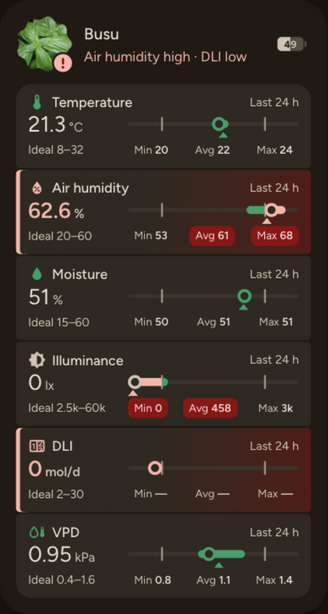
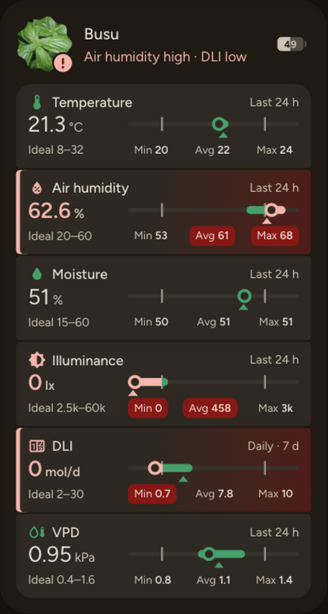
docs: history window, DLI daily totals, out-of-bounds red

diff --git a/README.md b/README.md
@@ -1,6 +1,6 @@
 # Material Plant Card
 
-A [Home Assistant](https://www.home-assistant.io/) Lovelace plant card built for **Material 3 Expressive**, with full-mode metric tiles and 24-hour ranges or compact circular gauges, plant problem summaries and a battery indicator. Requires [Olen's plant monitor integration](https://github.com/Olen/homeassistant-plant).
+A [Home Assistant](https://www.home-assistant.io/) Lovelace plant card built for **Material 3 Expressive**, with full-mode metric tiles and 24-hour or 7-day history or compact circular gauges, plant problem summaries and a battery indicator. Requires [Olen's plant monitor integration](https://github.com/Olen/homeassistant-plant).
 
 Designed to pair with [Material Thermostat Card](https://github.com/lageorgem/ha-material-thermostat-card), [Material Purifier Card](https://github.com/lageorgem/ha-material-purifier-card) and [Nerwyn's Material You theme](https://github.com/Nerwyn/material-you-theme), with Home Assistant theme fallbacks.
 
@@ -37,21 +37,21 @@ Designed to pair with [Material Thermostat Card](https://github.com/lageorgem/ha
 
 ## Highlights
 
-- Full mode (default, as in flower-card): a header and grouped Material 3 Expressive metric tiles with small tone-coloured icons, large values with units, ideal-bound ticks, a coloured 24-hour range, average marker and Min/Avg/Max badges.
+- Full mode (default, as in flower-card): a header and grouped Material 3 Expressive metric tiles with small tone-coloured icons, large values with units, ideal-bound ticks, a coloured 24-hour or 7-day range, average marker and Min/Avg/Max badges. Cumulative sensors such as DLI show daily totals for the last 7 complete days.
 - Compact mode: circular gauges with centred icons and three zones: **too low / just right / too high**, a thick in-range band, thin outer zones, an active arc and a position dot.
-- Success colour for in-range readings, neutral for out-of-range advice, error colour for problems with bold, error-coloured value text.
+- Success colour for in-range readings. Full-mode non-cumulative values, rings and title icons turn error red outside the ideal range, independently of problem settings; only real problems add the red left accent and tint. Compact gauges and cumulative current values keep the problem-setting colour.
 - Plant photo in an M3 Expressive cookie shape, with a placeholder for missing or broken images and a red error circle with a centred **!** when problems exist.
 - Name and species, or a problem summary such as **Moisture low · DLI low**.
 - Optional iOS-style battery glyph with the level number inside; red below 10% by default, otherwise neutral.
 - Width-aware, balanced gauge rows and two-line Material plain tooltips on long-press, hover or keyboard focus.
-- Shared photo and species header in both modes; visual editor with **Gauges**, **Problems** and **Appearance** sections.
+- Shared photo and species header in both modes; visual editor with **Metrics**, **Problems** and **Appearance** sections.
 - Config-compatible with flower-card; migrate by changing the card type.
 
 ## Gallery
 
-Full mode shows metric tiles and 24-hour ranges:
+Full mode shows metric tiles with configurable history and DLI daily totals:
 
-<img src="https://raw.githubusercontent.com/lageorgem/ha-material-plant-card/master/assets/full-dark.png" alt="Full mode: metric tiles with ideal ticks, 24-hour range, average marker and Min/Avg/Max badges; two tiles flagged as problems" width="327">
+<img src="https://raw.githubusercontent.com/lageorgem/ha-material-plant-card/master/assets/full-dark.png" alt="Busu in full mode: metric tiles with ideal ticks, historical ranges, average markers and Min/Avg/Max badges; humidity and DLI problems, with DLI daily totals" width="327">
 
 The dashboard above shows eleven plants in compact mode. This compact single-card view shows a plant needing attention:
 
@@ -114,12 +114,13 @@ Defaults apply when keys are omitted. Only `type` and `entity` are required; eve
 | `type` | string, required | None | Custom card type. | `custom:material-plant-card` |
 | `entity` | string, required | None | Plant monitor entity; must start with `plant.`. | `plant.orhideea` |
 | `name` | string, optional | Plant friendly name, then entity ID | Override the title; an empty string also falls back. | `Orchid` |
-| `display_type` | `full` or `compact`, optional | `full` | Full shows grouped metric tiles with range bars and 24-hour history; compact shows circular gauges. Both use the same photo and species header. | `compact` |
+| `display_type` | `full` or `compact`, optional | `full` | Full shows grouped metric tiles with range bars and history; compact shows circular gauges. Both use the same photo and species header. | `compact` |
 | `show_bars` | string list, optional | `[moisture, conductivity, temperature, illuminance, humidity, dli]` | Measurements to display, in order, as tiles or gauges. Duplicates are removed; `[]` hides all measurements. | `[moisture, temperature, dli]` |
 | `hide_species` | boolean, optional | `false` | Hide species in either mode; does not hide problem summaries. | `true` |
 | `hide_image` | boolean, optional | `false` | Hide the photo/placeholder and its alert badge. | `true` |
 | `hide_units` | boolean, optional | `false` in both modes | Full: hides the unit next to each value, keeping the number. Compact: hides the **entire value text** below gauges. | `true` |
-| `hide_history` | boolean, optional | `false` | Full only: disables history fetching; removes Last 24 h, the scale's min–max segment and average marker, and the Min/Avg/Max row. Keeps current values, ideal ranges, ticks and current-value rings. | `true` |
+| `history_period` | string (`24h` or `7d`), optional | `24h` | Full only: window for the historical range, average and Min/Avg/Max. Cumulative sensors always use daily totals for the last 7 complete days. Editor: Metrics → History window. | `7d` |
+| `hide_history` | boolean, optional | `false` | Full only: disables history fetching; removes the history label, the scale's min–max segment and average marker, and the Min/Avg/Max row. Keeps current values, ideal ranges, ticks and current-value rings. | `true` |
 | `image` | string, optional | Plant `entity_picture` | Picture URL or path override. A missing or broken image displays a placeholder. | `/local/plants/orchid.jpg` |
 | `battery_sensor` | string, optional | Unset; no indicator | Battery percentage sensor. Glyph is shown only if the entity exists. | `sensor.sh_5_battery` |
 | `battery_warn_level` | number, optional | `10` | Battery levels below this threshold use the error colour; otherwise neutral. | `10` |
@@ -163,13 +164,17 @@ Both modes show the same photo size and species line unless `hide_image` or `hid
 
 ## Reading full-mode tiles
 
-The title row has a small tone-coloured icon and metric name, with **Last 24 h** on the right. A large current value with its unit sits on the left, with **Ideal a–b** below it.
+The title row has a small tone-coloured icon and metric name, with **Last 24 h** (default) or **Last 7 d** on the right. Set `history_period: 7d`, or choose **Metrics → History window** in the editor, to change the window for the range, average and Min/Avg/Max. Cumulative sensors show **Daily · 7 d** instead. A large current value with its unit sits on the left, with **Ideal a–b** below it.
 
-On the right, a horizontal scale has tick marks at the ideal bounds. The last-24-hour minimum-to-maximum segment is success-coloured inside the ideal range and error-coloured outside it. A hollow ring marks the current value: success in range, error for a selected problem, or neutral for out-of-range advice according to [problem settings](#choosing-problem-behaviour). A triangle under the scale marks the 24-hour average, success-coloured within the ideal range and error-coloured outside it. Historical colours reflect the ideal bounds independently of problem settings. The historical range includes the current reading if it extends beyond the recorded range.
+On the right, a horizontal scale has tick marks at the ideal bounds. The historical minimum-to-maximum segment is success-coloured inside the ideal range and error-coloured outside it. A hollow ring marks the current value. For non-cumulative sensors, an out-of-range current value, ring and title icon turn error red even when [problem settings](#choosing-problem-behaviour) do not flag a problem. Cumulative current values such as DLI (today's running total) keep the problem-setting colour. A triangle under the scale marks the historical average, success-coloured within the ideal range and error-coloured outside it. Historical colours reflect the ideal bounds independently of problem settings. For non-cumulative sensors, the historical range includes the current reading if it extends beyond the recorded range.
 
-Below the scale, **Min · Avg · Max** values each get an error badge when outside the ideal range. Missing history shows **—** for those values. Problem tiles also have an error accent on the left edge, a faint error tint and bold, error-coloured current-value text.
+Below the scale, **Min · Avg · Max** values each get an error badge when outside the ideal range. Missing history shows **—** for those values. Only real problems selected by the problem settings add an error accent on the left edge and a faint error tint; a red current value alone does not mean the tile is a problem.
 
-History comes from Home Assistant's recorder long-term statistics, using hourly minimum, maximum and mean data for the last 24 hours. Sensors need `state_class: measurement` and recorder statistics enabled; plant monitor measurement sensors provide that state class. DLI is a running total, so it shows no 24-hour min–max segment or average marker, and its Min/Avg/Max values show **—**. Unavailable statistics behave the same way without hiding the current value or ideal range. History refreshes every **10 minutes**. `hide_history: true` disables fetching and removes **Last 24 h**, the historical segment, average marker and Min/Avg/Max row; the scale, ideal ticks and current-value ring remain.
+History comes from Home Assistant's recorder long-term statistics, using hourly minimum, maximum and mean data for the selected 24-hour or 7-day window. Measurement sensors need `state_class: measurement` and recorder statistics enabled; plant monitor measurement sensors provide that state class.
+
+Cumulative sensors (`state_class: total` or `total_increasing`), including the plant monitor's DLI, instead use daily totals for the **last 7 complete days**, regardless of `history_period`. Today's partial total is excluded from history. The segment and **Min · Avg · Max** summarise those daily totals, while the large current value remains today's running total. This replaces the previous DLI **—** history display.
+
+Unavailable statistics show **—** with no historical segment or average marker, without hiding the current value or ideal range. History refreshes every **10 minutes**. `hide_history: true` disables fetching and removes the history label (**Last 24 h**, **Last 7 d** or **Daily · 7 d**), historical segment, average marker and Min/Avg/Max row; the scale, ideal ticks and current-value ring remain.
 
 Tap a tile to open sensor more-info. `hide_units: true` hides only the unit next to the tile's value, not the number. Range position uses the same scaling as [compact gauges](#reading-compact-mode-gauges), including logarithmic lux scaling.
 
@@ -265,7 +270,7 @@ Use [Nerwyn's Material You theme](https://github.com/Nerwyn/material-you-theme) 
 | Gauge has no active indicator | Check that the sensor value and min/max thresholds are numeric and that minimum is below maximum. |
 | Out-of-range gauge is not red | Default problem behaviour follows the integration's triggers. Check those triggers and `problem_sensors`, or use `problem_source: gauges`. |
 | Values disappear in compact display | Check for `hide_units: true`; set it to `false` to restore value text (the default in both modes). |
-| Full tiles have no 24-hour range | Set `hide_history: false`, enable recorder statistics for measurement sensors and allow statistics to accumulate. Running-total DLI has no min/max/mean history. Current values still display. |
+| Full tiles have no history range | Set `hide_history: false`, enable recorder statistics and allow statistics to accumulate. Measurement sensors use the selected `history_period`; cumulative sensors such as DLI need completed daily totals and exclude today's partial total. Current values still display. |
 | No battery indicator | Set `battery_sensor` and confirm that entity exists. Battery is not auto-detected. |
 | Photo shows a placeholder | Check `image` or the plant's `entity_picture` and whether the browser can load it. |
 

diff --git a/info.md b/info.md
@@ -4,13 +4,13 @@ Material 3 Expressive plant monitoring for Home Assistant, using [Olen's plant m
 
 <img src="https://raw.githubusercontent.com/lageorgem/ha-material-plant-card/master/assets/hero-dark.png" alt="Eleven plants on a dark dashboard using Material Plant Card in compact mode" width="900">
 
-- Full mode (default, as in flower-card): a header and grouped Material 3 Expressive metric tiles. Each title row has a small tone-coloured icon and metric name, with **Last 24 h** on the right. A large current value with its unit sits above **Ideal a–b** on the left. On the right, a scale has ticks at the ideal bounds and a last-24h min–max segment coloured success inside the ideal range and error outside it. A hollow ring marks the current value, using success/error/neutral according to problem settings. A triangle below the scale marks the average, success-coloured in range and error-coloured outside it. Below that, **Min · Avg · Max** values each get an error badge when outside the ideal range, independently of problem settings. Problem tiles have an error accent on the left edge and a faint error tint.
+- Full mode (default, as in flower-card): a header and grouped Material 3 Expressive metric tiles. Each title row has a small tone-coloured icon and metric name, with **Last 24 h**, **Last 7 d** or **Daily · 7 d** on the right. A large current value with its unit sits above **Ideal a–b** on the left. On the right, a scale has ticks at the ideal bounds and a historical min–max segment coloured success inside the ideal range and error outside it. A hollow ring marks the current value. For non-cumulative sensors, out-of-range current values, rings and title icons turn error red even when problem settings do not flag a problem. Cumulative current values such as DLI keep the problem-setting colour. A triangle below the scale marks the average, success-coloured in range and error-coloured outside it. Below that, **Min · Avg · Max** values each get an error badge when outside the ideal range, independently of problem settings. Only real problems add the red left accent and faint error tint.
 - Compact mode: circular gauges with icons centred on the dial, low, just-right and high zones, an active arc and a position dot; coloured fill follows the track's thin outer zones, thick just-right band and gaps. Logarithmic illuminance scaling for positive lux thresholds applies in both modes.
-- Success colour in range (`--md-sys-color-success`, falling back to `--success-color`), neutral on-surface-variant for out-of-range readings without a problem, and error colour for problems with bold, error-coloured value text.
+- Success colour in range (`--md-sys-color-success`, falling back to `--success-color`). Compact gauges use neutral on-surface-variant for out-of-range readings without a problem, and error colour for problems with bold, error-coloured value text.
 - Cookie-shaped plant photo, missing-image placeholder, species or problem summary, and a red error circle with a centred **!** when attention is needed.
 - Optional bare iOS-style battery glyph with the level number inside; red below `battery_warn_level` (default **10%**), otherwise neutral. `battery_ok_level` is accepted but ignored for flower-card compatibility and is not in the visual editor.
 - Integration-driven problems by default, or opt-in problems from out-of-range gauges.
-- Both modes share the photo size and species header, with a visual editor for Gauges, Problems and Appearance.
+- Both modes share the photo size and species header, with a visual editor for Metrics, Problems and Appearance.
 - Compact has width-aware balanced gauge rows: when two rows are needed, five split 3/2, six 3/3 and seven 4/3, with the last row centred. Its six-gauge footprint is approximately **327 × 160 px** at 327 px width, versus flower-card's **327 × 203 px**. Full-mode tiles are approximately **84 px** tall; a six-metric full card is approximately **327 × 614 px**.
 - Flower-card-compatible configuration: change only the card type. `bars_per_row`, `show_care` and `extra_badges` are accepted but ignored.
 
@@ -23,7 +23,11 @@ entity: plant.orhideea
 
 Replace the entity ID with your own. Sensor readings and ranges come from the integration. Tap tiles or gauges for sensor more-info, or the photo/name for plant more-info. Set `display_type: compact` for gauges instead of the default full-mode tiles. `hide_units` defaults to `false` in both modes; `true` hides only the unit next to full-mode values, but hides complete compact gauge value text.
 
-Full-mode history uses Home Assistant recorder long-term statistics for sensors with `state_class: measurement` (provided by plant monitor measurement sensors). The historical range includes the current reading if it extends beyond the recorded range. History refreshes every **10 minutes**; `hide_history: true` disables fetching and removes **Last 24 h**, the scale's historical segment and average marker, and the Min/Avg/Max row, keeping current values, ideal ranges, ticks and current-value rings. DLI is a running total and has no 24-hour min–max/average data: its Min/Avg/Max values show **—**. Missing statistics behave the same way and leave the current value and ideal range visible. Historical segment and average colours follow the ideal bounds independently of problem settings.
+Full-mode history uses Home Assistant recorder long-term statistics for sensors with `state_class: measurement` (provided by plant monitor measurement sensors). `history_period` is an optional string: `24h` (default) or `7d` (example: `history_period: 7d`). It selects the window for the range, average and Min/Avg/Max; choose **Metrics → History window** in the editor. The tile label is **Last 24 h** or **Last 7 d**. The historical range includes the current reading if it extends beyond the recorded range.
+
+Cumulative sensors (`state_class: total` or `total_increasing`), including the plant monitor's DLI, always show daily totals for the **last 7 complete days**, labelled **Daily · 7 d**, regardless of `history_period`. Today's partial total is excluded from the historical range, average and Min/Avg/Max; the large DLI value remains today's running total. This replaces the previous DLI **—** history display.
+
+History refreshes every **10 minutes**; `hide_history: true` disables fetching and removes the history label, the scale's historical segment and average marker, and the Min/Avg/Max row, keeping current values, ideal ranges, ticks and current-value rings. Missing statistics show **—** without a historical segment or average marker and leave the current value and ideal range visible. Historical segment and average colours follow the ideal bounds independently of problem settings.
 
 Compact-mode gauge tooltips use the Material plain style with two lines: `<Metric>[ · too low/high]` and `<value> <unit> · ideal <min>–<max> <unit>`. Show them with a touch long-press (about 0.45 s), mouse hover (0.5 s) or keyboard focus; Escape dismisses. A normal tap still opens sensor more-info; a long-press does not. With the default `problem_source: plant`, low illuminance at night can stay neutral when the integration does not flag a problem.
 

diff --git a/CHANGELOG.md b/CHANGELOG.md
@@ -9,8 +9,10 @@ Unreleased — first public release in preparation.
 
 ### Added
 
-- Material 3 Expressive plant card for Olen's plant monitor integration. Full mode is the default, as in flower-card: a header and grouped metric tiles with a small tone-coloured icon and metric name in the title row, `Last 24 h` on the right, a large current value with its unit and `Ideal a–b` below it. Problem tiles have an error accent on the left edge and a faint error tint.
-- Full-mode last-24h recorder statistics: a scale on the right with ideal-bound ticks, a min–max segment coloured success inside the ideal range and error outside it, a hollow current-value ring using success/error/neutral per problem settings, and an average triangle below the scale coloured success in range or error outside it. Min/Avg/Max values below the scale each get an error badge outside the ideal range. Historical colours follow ideal bounds independently of problem settings; the historical range includes the current reading if it extends beyond recorded bounds. Refreshes every 10 minutes; `hide_history: true` disables fetching and removes `Last 24 h`, the historical segment, average marker and Min/Avg/Max row, keeping current values, ideal ranges, ticks and current-value rings. Requires recorder long-term statistics for `state_class: measurement` sensors; missing history, including running-total DLI, shows `—` for Min/Avg/Max with no historical segment or average marker.
+- Material 3 Expressive plant card for Olen's plant monitor integration. Full mode is the default, as in flower-card: a header and grouped metric tiles with a small tone-coloured icon and metric name in the title row, a history label on the right, a large current value with its unit and `Ideal a–b` below it. Only real problems selected by problem settings add an error accent on the left edge and a faint error tint.
+- Full-mode recorder statistics with optional string `history_period`: `24h` (default) or `7d` (example: `history_period: 7d`), selecting the window for the range, average and Min/Avg/Max. Editor: Metrics → History window; tile labels: `Last 24 h` or `Last 7 d`. The scale has ideal-bound ticks, a min–max segment coloured success inside the ideal range and error outside it, a hollow current-value ring and an average triangle coloured success in range or error outside it. Min/Avg/Max values each get an error badge outside the ideal range. Historical colours follow ideal bounds independently of problem settings; non-cumulative historical ranges include the current reading if it extends beyond recorded bounds. Refreshes every 10 minutes; `hide_history: true` disables fetching and removes the history label, historical segment, average marker and Min/Avg/Max row, keeping current values, ideal ranges, ticks and current-value rings. Measurement sensors require recorder long-term statistics with `state_class: measurement`; missing history shows `—` for Min/Avg/Max with no historical segment or average marker.
+- Cumulative sensors (`state_class: total` or `total_increasing`), including the plant monitor's DLI, use daily totals for the last 7 complete days, excluding today's partial total and ignoring `history_period`. Labelled `Daily · 7 d`; the historical range, average and Min/Avg/Max summarise daily totals instead of the previous DLI `—` display. The large DLI value remains today's running total.
+- Full-mode non-cumulative current values, rings and title icons turn error red outside ideal bounds even when problem settings do not flag them. Cumulative current values such as DLI retain the problem-setting colour; red left accents and tints still mark only real problems.
 - Compact mode with circular three-zone range gauges, icons centred on the dial, active arcs and position dots. Coloured fill follows the track's thin low/high zones, thick just-right band and the same gaps.
 - Success gauge colour in range (`--md-sys-color-success`, falling back to `--success-color`), neutral on-surface-variant out of range without a problem, and error colour for problems with bold, error-coloured value text. Logarithmic illuminance scaling for lux readings with positive minimum thresholds.
 - Support for moisture, conductivity, temperature, illuminance, humidity, DLI, 24-hour DLI, CO₂, soil temperature and VPD measurements supplied by the integration.
@@ -20,7 +22,7 @@ Unreleased — first public release in preparation.
 - Two-line Material plain gauge tooltips: `<Metric>[ · too low/high]` and `<value> <unit> · ideal <min>–<max> <unit>`. Touch long-press (about 0.45 s), mouse hover (0.5 s) and keyboard focus show the tooltip; Escape dismisses. Normal taps open sensor more-info; long-presses do not. Photo/name and battery taps open their respective more-info dialogs.
 - Shared photo size and species header in both modes, configurable measurement order and visibility, and `hide_units` defaulting to `false` in both modes. When enabled, it hides only the unit beside full-mode values, but complete compact gauge value text. Tap tiles or gauges for sensor more-info.
 - Compact width-measured, balanced gauge rows when gauges do not fit one row, with the extra on the first row and the last row centred (two-row examples: 5 → 3/2, 6 → 3/3, 7 → 4/3). Compact is approximately 327 × 160 px at 327 px width with six gauges, versus flower-card's 327 × 203 px; full-mode tiles are approximately 84 px tall and a six-metric full card is approximately 327 × 614 px.
-- Home Assistant visual configuration form with Gauges, Problems and Appearance sections.
+- Home Assistant visual configuration form with Metrics, Problems and Appearance sections.
 - Material You theme tokens with Home Assistant theme fallbacks and reduced-motion support.
 - Flower-card-compatible configuration keys, with `bars_per_row`, `show_care` and `extra_badges` accepted and ignored; independent implementation with no shared code.
 - HACS/manual installation documentation, full-options and migration YAML examples, and content-addressed local deployment with SHA-256 verification before resource registration.
